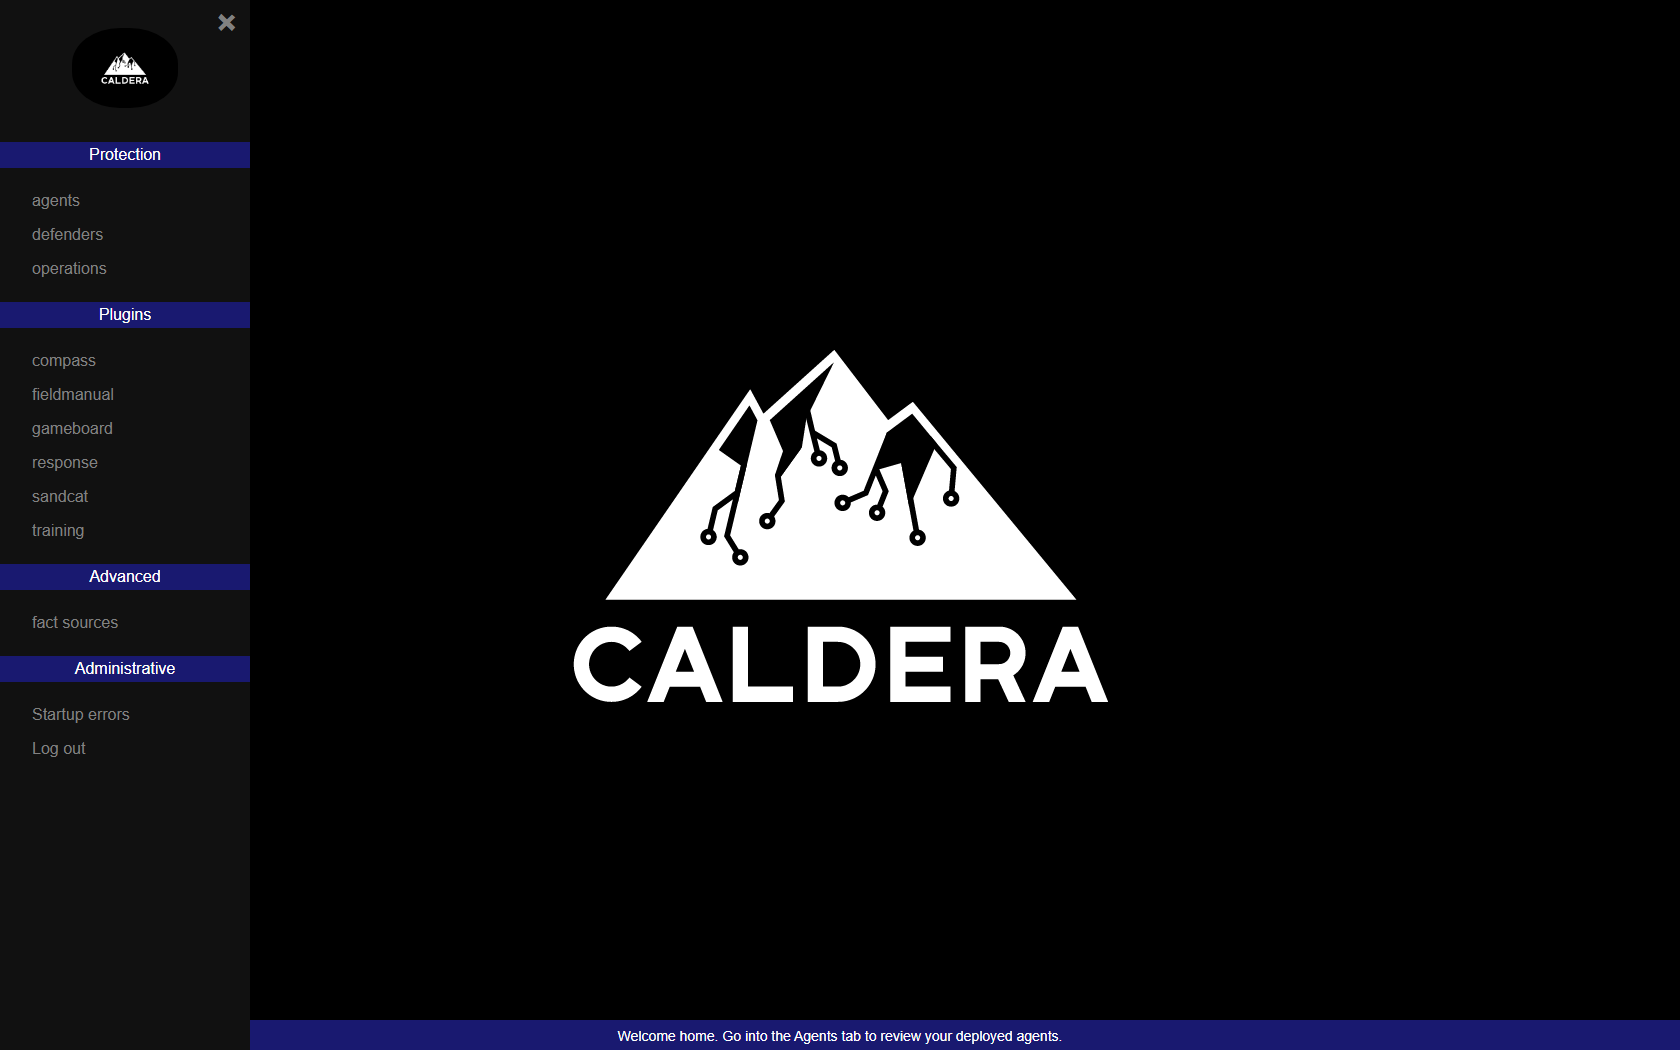
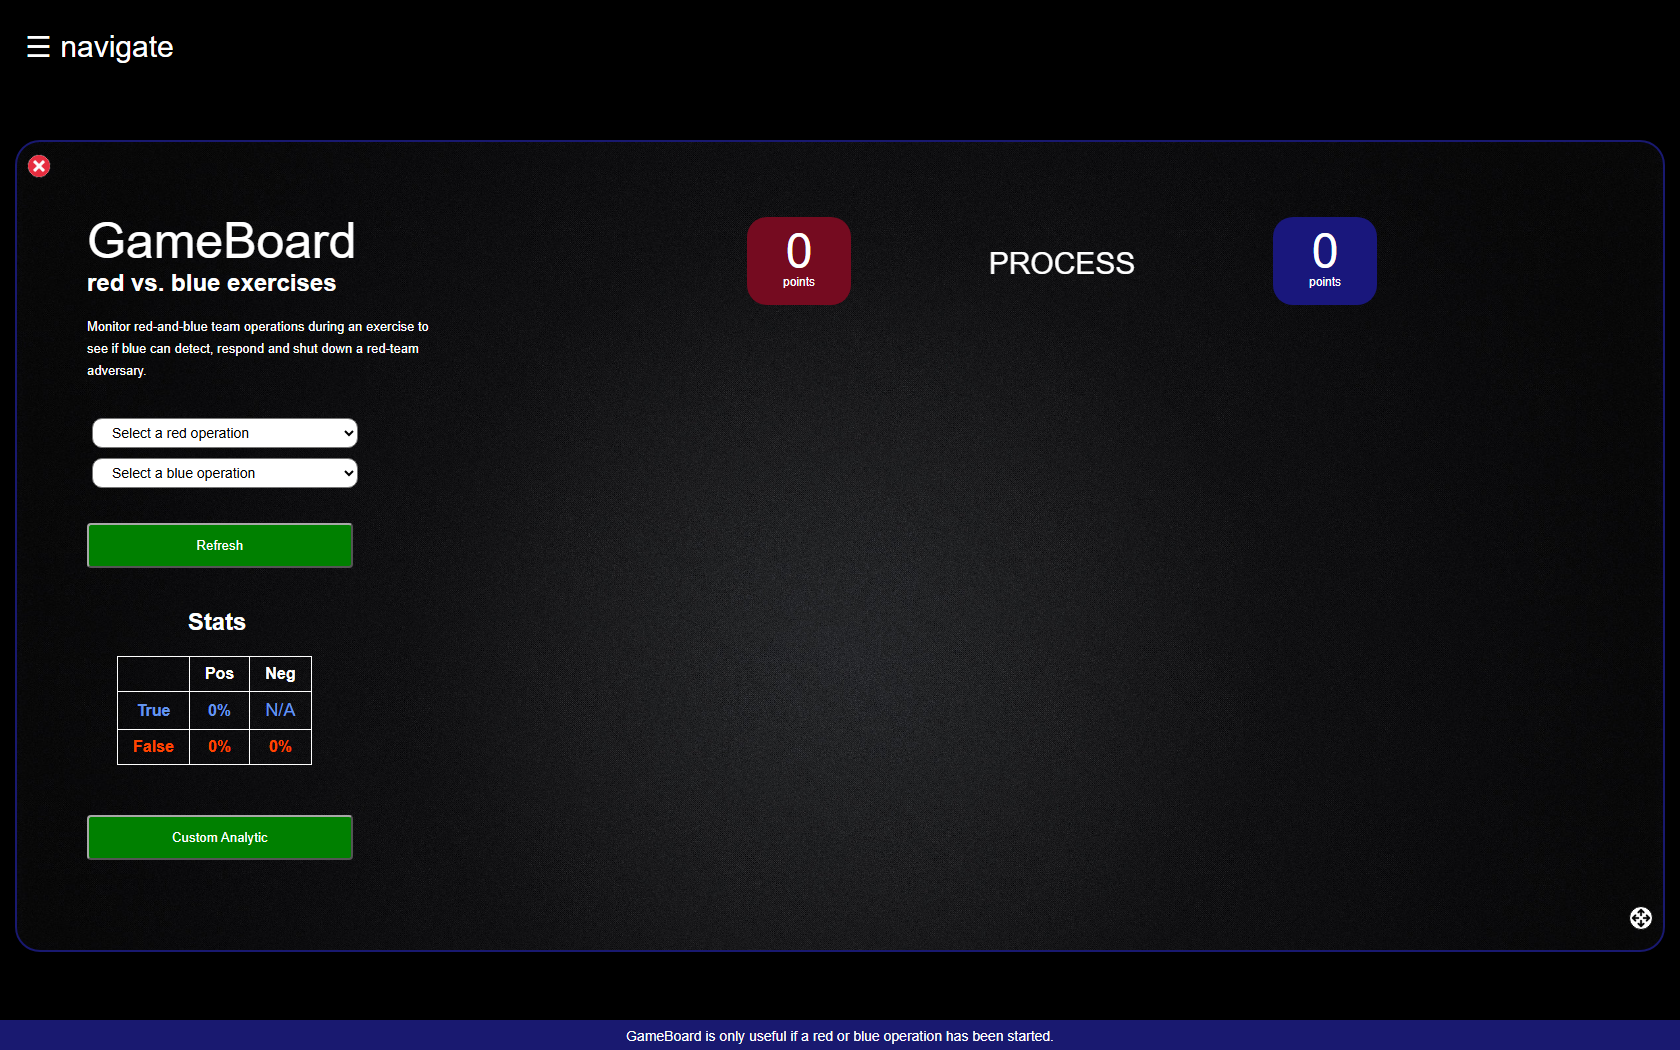
docs(caldera): update distinct live screenshots for Admin (Settings), Red Team (Alice 2.0 TTPs), and Blue Team (GameBoard)

diff --git a/tools/capture-native-tool-screenshots.py b/tools/capture-native-tool-screenshots.py
@@ -55,115 +55,81 @@ def capture_opensearch(context):
     finally:
         page.close()
 
-def capture_caldera_admin(browser):
-    print("[*] Capturing MITRE Caldera for user 'admin' (07_caldera_admin.png)...")
-    context = browser.new_context(viewport={"width": 1680, "height": 1050}, ignore_https_errors=True)
+def capture_caldera_user(browser, username, password, output_filename, section_args=None, is_main=False):
+    print(f"[*] Capturing MITRE Caldera for user '{username}' -> {output_filename}...")
+    context = browser.new_context(
+        viewport={"width": 1680, "height": 1050},
+        device_scale_factor=1,
+        ignore_https_errors=True
+    )
     page = context.new_page()
     try:
+        # Caldera login
         page.goto("http://localhost:8888/login", wait_until="networkidle", timeout=30000)
         time.sleep(1)
-        page.fill('input[name="username"], input[type="text"]', "admin")
-        page.fill('input[name="password"], input[type="password"]', "admin123")
-        page.click('button[type="submit"], input[type="submit"]')
-        page.wait_for_load_state("networkidle", timeout=30000)
-        time.sleep(2)
         
-        page.goto("http://localhost:8888/", wait_until="networkidle", timeout=30000)
-        time.sleep(2)
-        page.evaluate("viewSection('configurations', '/advanced/configurations')")
-        time.sleep(3)
-        
-        target_file = OUT / "07_caldera_admin.png"
-        page.screenshot(path=str(target_file), full_page=False)
-        print(f"[+] Saved Caldera Admin screenshot: {target_file}")
-    except Exception as e:
-        print(f"[-] Caldera Admin capture failed: {e}")
-    finally:
-        page.close()
-        context.close()
-
-def capture_caldera_red(browser):
-    print("[*] Capturing MITRE Caldera for user 'red' (07_caldera_red.png)...")
-    context = browser.new_context(viewport={"width": 1680, "height": 1050}, ignore_https_errors=True)
-    page = context.new_page()
-    try:
-        page.goto("http://localhost:8888/login", wait_until="networkidle", timeout=30000)
-        time.sleep(1)
-        page.fill('input[name="username"], input[type="text"]', "red")
-        page.fill('input[name="password"], input[type="password"]', "RedTeamPass123!")
-        page.click('button[type="submit"], input[type="submit"]')
-        page.wait_for_load_state("networkidle", timeout=30000)
-        time.sleep(2)
-        
-        page.goto("http://localhost:8888/", wait_until="networkidle", timeout=30000)
-        time.sleep(2)
-        page.evaluate("viewSection('profiles', '/campaign/profiles')")
-        time.sleep(3)
-        
-        # Select an adversary profile to display full ATT&CK abilities
-        try:
-            page.evaluate("""() => {
-                const select = document.getElementById('profile-existing-name');
-                if (select && select.options.length > 1) {
-                    select.selectedIndex = 1;
-                    if (typeof loadAdversary === 'function') {
-                        loadAdversary();
-                    }
-                }
-            }""")
-            time.sleep(3)
-        except Exception as sel_err:
-            print(f"    [!] Note on adversary select: {sel_err}")
+        # Fill credentials
+        if page.query_selector('input[name="username"]') or page.query_selector('input[type="text"]'):
+            print(f"    Entering credentials for {username}...")
+            page.fill('input[name="username"], input[type="text"]', username)
+            page.fill('input[name="password"], input[type="password"]', password)
+            page.click('button[type="submit"], input[type="submit"]')
+            page.wait_for_load_state("networkidle", timeout=30000)
+            time.sleep(2)
             
-        target_file = OUT / "07_caldera_red.png"
-        page.screenshot(path=str(target_file), full_page=False)
-        print(f"[+] Saved Caldera Red Team screenshot: {target_file}")
-        
-        hero_file = OUT / "07_caldera_attack.png"
-        page.screenshot(path=str(hero_file), full_page=False)
-        print(f"[+] Saved Caldera Hero screenshot: {hero_file}")
-    except Exception as e:
-        print(f"[-] Caldera Red capture failed: {e}")
-    finally:
-        page.close()
-        context.close()
-
-def capture_caldera_blue(browser):
-    print("[*] Capturing MITRE Caldera for user 'blue' (07_caldera_blue.png)...")
-    context = browser.new_context(viewport={"width": 1680, "height": 1050}, ignore_https_errors=True)
-    page = context.new_page()
-    try:
-        page.goto("http://localhost:8888/login", wait_until="networkidle", timeout=30000)
-        time.sleep(1)
-        page.fill('input[name="username"], input[type="text"]', "blue")
-        page.fill('input[name="password"], input[type="password"]', "BlueTeamPass123!")
-        page.click('button[type="submit"], input[type="submit"]')
-        page.wait_for_load_state("networkidle", timeout=30000)
-        time.sleep(2)
-        
         page.goto("http://localhost:8888/", wait_until="networkidle", timeout=30000)
         time.sleep(2)
         
-        # Open Blue navigation menu to showcase Protection & Defender modules
-        try:
-            page.evaluate("openNav()")
-            time.sleep(1)
-        except Exception:
-            pass
-            
-        target_file = OUT / "07_caldera_blue.png"
+        if section_args:
+            name, address = section_args
+            print(f"    Opening specific section: {name} ({address})...")
+            try:
+                page.evaluate(f"viewSection('{name}', '{address}')")
+                time.sleep(3)
+                
+                # If opening profiles, select an adversary to populate abilities
+                if name == "profiles":
+                    dropdown = page.query_selector("select#profile-existing-name, select")
+                    if dropdown:
+                        dropdown.select_option(index=1)
+                        time.sleep(2)
+            except Exception as eval_err:
+                print(f"    viewSection eval failed: {eval_err}")
+                try:
+                    page.evaluate("openNav()")
+                    time.sleep(1)
+                except Exception:
+                    pass
+        else:
+            try:
+                page.evaluate("openNav()")
+                time.sleep(1)
+            except Exception:
+                pass
+        
+        target_file = OUT / output_filename
         page.screenshot(path=str(target_file), full_page=False)
-        print(f"[+] Saved Caldera Blue Team screenshot: {target_file}")
+        print(f"[+] Saved Caldera ({username}) screenshot: {target_file}")
+        
+        if is_main:
+            main_target = OUT / "07_caldera_attack.png"
+            page.screenshot(path=str(main_target), full_page=False)
+            print(f"[+] Saved Caldera hero screenshot: {main_target}")
     except Exception as e:
-        print(f"[-] Caldera Blue capture failed: {e}")
+        print(f"[-] Caldera capture failed for {username}: {e}")
     finally:
         page.close()
         context.close()
 
 def capture_caldera(browser):
-    capture_caldera_admin(browser)
-    capture_caldera_red(browser)
-    capture_caldera_blue(browser)
+    # 1. Administrator: Configurations, Plugins & Server Management View
+    capture_caldera_user(browser, "admin", "admin123", "07_caldera_admin.png", section_args=("configurations", "/advanced/configurations"))
+    
+    # 2. Red Team Operator: Adversary Profiles & ATT&CK Abilities Campaign
+    capture_caldera_user(browser, "red", "RedTeamPass123!", "07_caldera_red.png", section_args=("profiles", "/campaign/profiles"), is_main=True)
+    
+    # 3. Blue Team Defender: Incident Response, Defensive Agents & Gameboard Matrix
+    capture_caldera_user(browser, "blue", "BlueTeamPass123!", "07_caldera_blue.png", section_args=("gameboard", "/plugin/gameboard/gui"))
 
 def capture_velociraptor(context):
     print("[*] Capturing Velociraptor EDR (https://localhost:8889)...")

diff --git a/README.md b/README.md
@@ -624,16 +624,16 @@ The platform provides **native standalone tool dashboards** running on dedicated
 >
 > **Capabilities:** Native Adversary Emulation Dashboard, Operations, Abilities, Adversary Profiles, Agents, ATT&CK Compass Heatmap, Defense Response Plugins.
 
-##### 🛡 MITRE Caldera — Administrator Dashboard (`admin`)
-*Caldera Server Configurations & Plugin Settings Console (Host/Port, API Keys, SSH Tunnels, Obfuscators, Exfil Endpoints).*
+##### 🛡 MITRE Caldera — Administrator System & Plugins Configuration (`admin`)
+*Live view of Caldera server parameters, C2 agent contact endpoints, exfiltration channels, and 11 integrated security plugins.*
 ![MITRE Caldera Administrator Dashboard](dashboards/screenshots/07_caldera_admin.png)
 
-##### 🔴 MITRE Caldera — Red Team Adversary Operations (`red`)
-*Caldera Red Team Adversary Profiles & Emulation Attack Chain (Alice 2.0 TTPs: Recon, Powerkatz Credential Access, SMB Lateral Movement, WMI Execution).*
+##### 🔴 MITRE Caldera — Red Team Adversary Profiles & ATT&CK Abilities (`red`)
+*Live view of adversarial campaign orchestration (Alice 2.0) with multi-stage ATT&CK tactics (Discovery, Credential Access, Lateral Movement).*
 ![MITRE Caldera Red Team Operator](dashboards/screenshots/07_caldera_red.png)
 
-##### 🔵 MITRE Caldera — Blue Team Defensive Monitoring (`blue`)
-*Caldera Blue Team Protection Console with Defender Operations, Incident Response Plugins (Gameboard, Debrief, Training), and Defensive Fact Sources.*
+##### 🔵 MITRE Caldera — Blue Team Defensive GameBoard & Exercise Scoring (`blue`)
+*Live view of the GameBoard plugin monitoring real-time Red vs. Blue emulation exercises, detection accuracy stats, and defense telemetry.*
 ![MITRE Caldera Blue Team Defender](dashboards/screenshots/07_caldera_blue.png)
 
 ---
